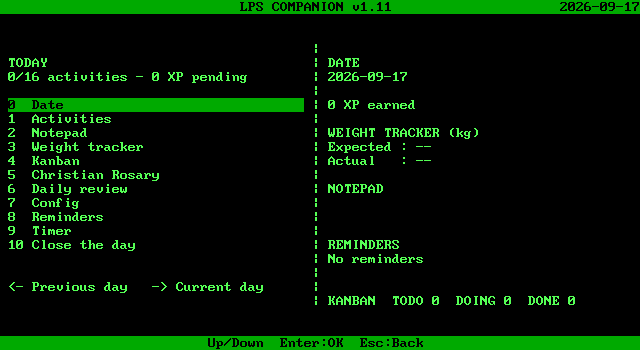
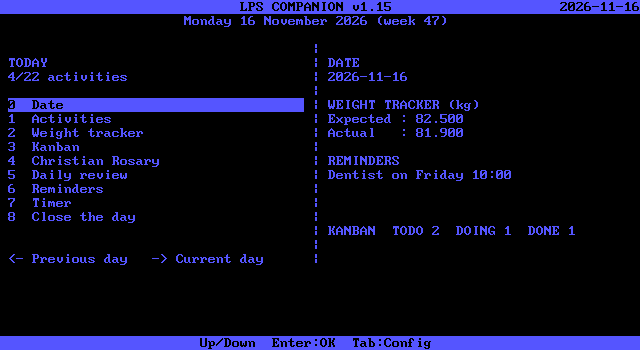
LPS-DOS-115-CHG12: LPS COMPANION v1.15 title, READMEs, DOSBox captures, Book 8088 checklist
- LPS_VERSION_STR 1.15 in title bar and start-up banner (as PicoCalc LPS-115-CHG06); header comments; test asserts v1.15 title.
- READMEs EN/FR and top-level README: v1.15, parity table (TAB Config, Home entries, overlays), EN Known differences, MEALS.DAT beside the EXE.
- captures/*.png retaken in DOSBox (machine=ega, cputype=8086, cycles=fixed 300), raw 640x350.
- tools/capture_drive.c + drive_captures.sh updated to the CHG10 keys and meals.c.
- BOOK8088-TEST.md: real-device checklist (FR + EN).
- Root LPSCOMP.EXE rebuilt; ROSARY.DAT, MEALS.DAT, HELLO.EXE unchanged.

diff --git a/lps-companion/tests/test_storage.c b/lps-companion/tests/test_storage.c
@@ -171,6 +171,7 @@ static void check_menu_and_legacy_note(const char *tmpdir){
     assert(save_store(tmpdir,&s,&gen,&active));
     hw=plat_host_create(0); app_init(a,hw); app_start(a);
     assert(app_screen(a)==SCR_HOME);
+    assert(row_has(hw,0,"LPS COMPANION v1.15") && !strcmp(LPS_VERSION_STR,"1.15")); /* LPS-DOS-115-CHG12 */
     for(i=0;i<9;i++) assert(strstr(plat_host_row(hw,7+(int)i),labels[i]));
     for(i=7;i<=17;i++) assert(!strstr(plat_host_row(hw,(int)i),"Config") && !strstr(plat_host_row(hw,(int)i),"9  "));
     assert(row_has(hw,24,"Up/Down  Enter:OK  Tab:Config"));
@@ -1966,7 +1967,7 @@ int main(void){
     check_home_filtered(tmpdir);
     assert(orphan_hits>0); /* some edit took a name history had stored */
 
-    printf("%s", "PASS: storage, ICS (empty XP line), CSV, A/B, app close-day without XP, long date + ISO week 2000-2099, ROSARY.DAT load/missing/damaged, menu 0-8 without notepad or Config, archive menu 1-2, legacy note in ICS, timer 5/30/60 on keys 1-3, ICS 8.3 name YYYYMMDD.ICS, French CP437 screens + UTF-8 ICS, word wrap, JSON saves (round trip, PicoCalc fixtures byte-identical, BIN migration, damaged slot fallback,");
+    printf("%s", "PASS: storage, ICS (empty XP line), CSV, A/B, app close-day without XP, long date + ISO week 2000-2099, ROSARY.DAT load/missing/damaged, title v1.15, menu 0-8 without notepad or Config, archive menu 1-2, legacy note in ICS, timer 5/30/60 on keys 1-3, ICS 8.3 name YYYYMMDD.ICS, French CP437 screens + UTF-8 ICS, word wrap, JSON saves (round trip, PicoCalc fixtures byte-identical, BIN migration, damaged slot fallback,");
     printf("%s", " unknown keys, newer schema), activities (22 defaults, catalog from the save, 3 columns, keys per column, archive extras, 30 entries, pages), custom activities (rename per language, new, Del with confirm, F4/F5 wrap, frozen history, limits), top-row keys by BIOS scan code (AZERTY/US, keypad, text entry), accented tasks and reminders (32 UTF-8 bytes, PicoCalc fixture),");
     printf(" UTF-8 kept byte for byte (PicoCalc JSON/ICS/CSV with oe, A grave, euro, emoji), MEALS.DAT (13 pictures, checksums, damaged/missing), Meal Planner (SPACE, wraps, play/put back, saves, archive read-only, new deck at close, text card, graphics hooks, FR, PicoCalc deck byte-identical),");
     printf(" Meal Planner CSV (MPYYMMDD.CSV byte-identical to PicoCalc, rules, failures, close day), TAB/SPACE overlays (identical return, text entry, Weight, confirmations, cross-open, archive, timer behind overlays + CSV), fixture decode (%u captures)\n", 0);

diff --git a/lps-companion/tools/capture_drive.c b/lps-companion/tools/capture_drive.c
@@ -25,9 +25,9 @@ int main(void){
     app_key(app,'1'); snap(hw,"02-activities");
     app_key(app,KEY_ESCAPE); app_key(app,'3'); snap(hw,"03-kanban");
     app_key(app,KEY_ESCAPE); app_key(app,'4'); snap(hw,"04-rosary-mode");
-    app_key(app,KEY_ESCAPE); app_key(app,'8'); snap(hw,"05-timer");
-    /* Config 6: 1 Language, 2 Francais, 3 Save */
-    app_key(app,KEY_ESCAPE); app_key(app,'6'); app_key(app,'1'); app_key(app,'2');
-    app_key(app,'3'); /* save FR */ snap(hw,"06-home-fr");
+    app_key(app,KEY_ESCAPE); app_key(app,'7'); snap(hw,"05-timer");
+    /* Config (TAB, LPS-DOS-115-CHG10): 1 Language, 2 Francais, 4 Save */
+    app_key(app,KEY_ESCAPE); app_key(app,KEY_TAB); app_key(app,'1'); app_key(app,'2');
+    app_key(app,'4'); /* save FR */ snap(hw,"06-home-fr");
     return 0;
 }

diff --git a/lps-companion/src/lps.h b/lps-companion/src/lps.h
@@ -1,4 +1,4 @@
-/* LPS Companion MS-DOS port - shared types (Companion v1.11 parity). C89. */
+/* LPS Companion MS-DOS port - shared types (Companion v1.15 parity). C89. */
 #ifndef LPS_H
 #define LPS_H
 
@@ -15,7 +15,7 @@ typedef unsigned long  lps_tick_t;
 typedef uint64_t lps_tick_t;
 #endif
 
-#define LPS_VERSION_STR "1.11"
+#define LPS_VERSION_STR "1.15" /* LPS-DOS-115-CHG12, as PicoCalc LPS-115-CHG06 */
 #define NOTE_LENGTH 96 /* legacy notes: kept in SAVE and ICS, no editor since LPS-DOS-115-CHG02 */
 #define HISTORY_LENGTH 31
 #define TASK_NAME_LENGTH 32

diff --git a/lps-companion/src/state.c b/lps-companion/src/state.c
@@ -1,4 +1,4 @@
-/* state.c - dates, banked XP, encode/decode (Companion v1.11 wire formats 1-6). */
+/* state.c - dates, banked XP, encode/decode of the old binary saves (formats 1-6, migration). */
 #include "lps.h"
 #include <stdio.h>
 #include <stdlib.h>

diff --git a/lps-companion/src/app.c b/lps-companion/src/app.c
@@ -1,4 +1,4 @@
-/* app.c - LPS Companion UI state machine (v1.11 feature parity). C89. */
+/* app.c - LPS Companion UI state machine (v1.15 feature parity). C89. */
 #include "lps.h"
 #include "rosary.h"
 #include "meals.h"

diff --git a/lps-companion/README.md b/lps-companion/README.md
@@ -2,7 +2,7 @@
 
 **English** | [Francais](#lps-companion-pour-ms-dos)
 
-A full port of [LPS Companion v1.11](https://github.com/TME520/LPS-Companion-PicoCalc) (PicoCalc) to real-mode 16-bit MS-DOS
+A full port of [LPS Companion v1.15](https://github.com/TME520/LPS-Companion-PicoCalc) (PicoCalc) to real-mode 16-bit MS-DOS
 for Intel **8088**-class PCs with **640 KB** conventional memory. Keyboard only
 (no mouse). Text mode **80×25** (content laid out in 40 columns, same as the
 Companion). Data lives under `C:\LPS\` by default and uses the **same**
@@ -133,6 +133,10 @@ As on the PicoCalc v1.15 (LPS-115-CHG04), same code paths:
 - The save does not change: `"homeHidden"` as in CHG10, byte for byte as the PicoCalc. Saves written by DOS under DOSBox with entries hidden go through the PicoCalc's reader and writer unchanged.
 - **Speed on an 8088** (DOSBox `machine=ega`, `cputype=8086`, `cycles=fixed 300`): Down on Home 0.19 s with 9 entries, 0.17 s with 7; a digit and Esc back 0.45 s; TAB/TAB with the cursor kept 0.39 s for the pair; SPACE/SPACE through the planner 0.84 s for the pair; Config's Save back to the filtered Home 0.88 s with the write and read-back of a small save.
 
+### Version 1.15 (LPS-DOS-115-CHG12)
+
+The title bar and the start-up banner read **LPS COMPANION v1.15**, as on the PicoCalc v1.15 (LPS-115-CHG06). With LPS-DOS-115-CHG01 to CHG11 the DOS port now has the PicoCalc v1.15 features and files: JSON saves, ICS, weight CSV and Meal Planner CSV are byte-compatible; the differences left are listed under *Known differences*. The screenshots in `captures/` were taken again under DOSBox (`machine=ega`, `cputype=8086`, `cycles=fixed 300`) with v1.15. A test list for the real Book 8088 is in [`BOOK8088-TEST.md`](BOOK8088-TEST.md).
+
 The **Timer / Minuteur** offers **5, 30 or 60 minutes** (LPS-DOS-115-CHG02b, as PicoCalc v1.12 CHG01/CHG02). Keys **1**, **2** and **3** start a duration directly, without Enter. On the completion screen they start a new countdown at once and Enter returns to the duration menu; while a countdown runs they are ignored, and Enter pauses or resumes. Timing still comes from the BIOS tick (about 55 ms).
 
 French is shown with its accents (LPS-DOS-115-CHG03): **Activités, Journée, Rosaire chrétien, Revue journalière, Février, Août, Décembre…**, with the PicoCalc's wording, in the PC's own code page 437 font. CP437 has é è ê ë à â ä ç î ï ô û ù ü and É, but no other accented capitals, so À, È, Ê, Ô and Â show without their accent (À FAIRE → A FAIRE, NOTRE PÈRE → NOTRE PERE, TÂCHE → TACHE). Files stay UTF-8 like the PicoCalc's: a French ICS now writes `Activités:` and accented activity names exactly as the PicoCalc does (earlier DOS builds wrote `Activites:`). See *Text encoding* below. A note already saved by an older version is kept in the save and still exported to the ICS (`\NNote: ...`) when its day is closed; it is no longer shown or editable.
@@ -153,13 +157,13 @@ Saves are JSON files, `SAVE_A.JSN` and `SAVE_B.JSN`, exactly as on the PicoCalc 
 
 - MS-DOS 3.3+ / FreeDOS / MS-DOS 7.x (FAT12/16)
 - Intel 8088 or compatible (EXE built with Open Watcom `-0`)
-- ~300 KB free disk for `LPSCOMP.EXE` (~94 KB), `ROSARY.DAT` (~10 KB) and `MEALS.DAT` (~196 KB); the data folder grows with history (each JSON save is up to about 10 KB)
+- ~300 KB free disk for `LPSCOMP.EXE` (~97 KB), `ROSARY.DAT` (~10 KB) and `MEALS.DAT` (~196 KB); the data folder grows with history (each JSON save is up to about 10 KB)
 - Colour text (CGA/EGA/VGA) for palettes; mono still readable
 - EGA (128 KB or more) or VGA in colour for the Meal Planner pictures; otherwise the planner runs in text mode
 - Python 3 to build `MEALS.DAT` (`make meals`, `make test`)
 - Open Watcom C/C++ (v2) to build; gcc to run the host tests
 
-## Feature parity (Companion v1.11)
+## Feature parity (Companion v1.15)
 
 | Feature | Status |
 |---|---|
@@ -171,7 +175,9 @@ Saves are JSON files, `SAVE_A.JSN` and `SAVE_B.JSN`, exactly as on the PicoCalc 
 | Kanban 24 tasks TODO/DOING/DONE | Yes |
 | Christian Rosary (4 modes, FR/EN) | Yes (French accents in CP437) |
 | Daily review | Yes |
-| Config language EN/FR + 5 palettes | Yes (text attributes) |
+| Config language EN/FR + 5 palettes, opened with TAB | Yes (text attributes; LPS-DOS-115-CHG10) |
+| Home entries shown/hidden (Config > Activities, `"homeHidden"`) | Yes (LPS-DOS-115-CHG10/CHG11) |
+| TAB/SPACE from every screen (Config, Meal Planner) | Yes (LPS-DOS-115-CHG09) |
 | 3 reminders | Yes |
 | Timer 5/30/60, keys 1-3 (BIOS tick) | Yes |
 | Close day (XP and keepsakes hidden, as in v1.12) | Yes |
@@ -179,7 +185,7 @@ Saves are JSON files, `SAVE_A.JSN` and `SAVE_B.JSN`, exactly as on the PicoCalc 
 | Dual A/B JSON save (`SAVE_A/B.JSN`, schema 2) + CRC | Yes (read **and** write, PicoCalc-compatible) |
 | `SAVE_A/B.BIN` v1–v6 migration | Yes (read once; `.BIN` files left untouched) |
 | ICS + weights CSV byte-compatible | Yes |
-| Meal Planner (16 cards, Space on Home, card pictures) | Yes (LPS-DOS-115-CHG07, EGA graphics; text mode without EGA) |
+| Meal Planner (16 cards, Space, card pictures) | Yes (LPS-DOS-115-CHG07, EGA graphics; text mode without EGA) |
 | Meal Planner CSV `EXPORT\MPYYMMDD.CSV` byte-compatible | Yes (LPS-DOS-115-CHG08, same name as the PicoCalc) |
 
 ## Build
@@ -345,7 +351,7 @@ Fixes kept in this tree:
   (`-k4096`), which is what `make dos` passes
 - Video: detect MDA vs CGA via BIOS equipment word + mode `0Fh`; use **B000**
   or **B800** accordingly; only set mode `03h`/`07h` if not already text
-- Early BIOS teletype banner (`LPS COMPANION v1.11`) before dirs / UI
+- Early BIOS teletype banner (`LPS COMPANION v1.15` since LPS-DOS-115-CHG12) before dirs / UI
 - Soft FP (`-fpc`) — no 8087 required
 - **`HELLO.EXE`** (built with `make hello`): tiny BIOS-only smoke test (prints mode / equipment)
 
@@ -514,17 +520,24 @@ byte-compatible with the firmware.
 | `tests/fixtures/mealcsv/MP*.CSV` | Meal Planner CSV files written by the PicoCalc's own code |
 | `tools/picocalc_fixture.cpp` | Builds the PicoCalc save code on the host: fixtures and checks |
 
+## Known differences
+
+- Capitals À, È, Ê, Ô and Â show without their accent: code page 437 does not have them (LPS-DOS-115-CHG03).
+- ICS files are named `EXPORT\YYYYMMDD.ICS` (8.3) instead of `YYYY-MM-DD_LPS-Companion.ics`; the content is the same (LPS-DOS-115-CHG02c).
+- Saves are written when leaving a screen, confirming Date/Weight/Config, closing the day or quitting (**Q**), not after every change; the Meal Planner saves when it closes, not after each card. After a write DOS checks the CRC-32 only, not a full re-parse (8088 speed).
+- Meal Planner pictures are checked with a 32-bit sum instead of a CRC-32 (8088 speed); without colour EGA the planner is in text mode.
+- No low-battery warning (no such hardware). Config has no "SD import" entry: the DOS disk **is** the storage.
+
 ## Captures
 
-PNG screenshots under `captures/` (home EN/FR, a few feature screens, a
-DOSBox 8086 home grab, and two DOSBox EGA grabs of the Meal Planner). Text dumps are not stored; `make captures` rewrites
+PNG screenshots under `captures/`, all raw 640×350 DOSBox grabs of v1.15 at 8088 speed (`machine=ega`, `cputype=8086`, `cycles=fixed 300`, LPS-DOS-115-CHG12): Home EN/FR, Activities, Kanban, Rosary mode, Timer, a DOSBox Home grab and the EGA Meal Planner (EN, and FR with a played card). Text dumps are not stored; `make captures` rewrites
 `captures/*.txt` from the host UI driver.
 
 ---
 
 # LPS Companion pour MS-DOS
 
-Port complet de [LPS Companion v1.11](https://github.com/TME520/LPS-Companion-PicoCalc)
+Port complet de [LPS Companion v1.15](https://github.com/TME520/LPS-Companion-PicoCalc)
 vers MS-DOS 16 bits (8088, 640 Ko), clavier uniquement, mode texte 80×25.
 Memes formats `SAVE_A/B.JSN` (sauvegarde JSON, schema 2), ICS et CSV que le firmware PicoCalc v1.13 et suivants.
 
@@ -651,6 +664,10 @@ Comme sur la PicoCalc v1.15 (LPS-115-CHG04), avec la même logique :
 - La sauvegarde ne change pas : `"homeHidden"` comme pour CHG10, octet pour octet comme la PicoCalc. Les sauvegardes écrites par DOS sous DOSBox avec des entrées masquées passent par le lecteur et l'écrivain de la PicoCalc sans changer.
 - **Vitesse sur 8088** (DOSBox `machine=ega`, `cputype=8086`, `cycles=fixed 300`) : Bas sur l'accueil 0,19 s avec 9 entrées, 0,17 s avec 7 ; un chiffre puis Échap 0,45 s ; TAB/TAB avec le curseur gardé 0,39 s pour la paire ; ESPACE/ESPACE par le planificateur 0,84 s pour la paire ; Enregistrer dans Config jusqu'à l'accueil filtré 0,88 s, écriture et relecture d'une petite sauvegarde comprises.
 
+### Version 1.15 (LPS-DOS-115-CHG12)
+
+La barre de titre et la bannière de démarrage affichent **LPS COMPANION v1.15**, comme la PicoCalc v1.15 (LPS-115-CHG06). Avec LPS-DOS-115-CHG01 à CHG11, le portage DOS a les fonctions et les fichiers de la PicoCalc v1.15 : sauvegardes JSON, ICS, CSV des poids et CSV du planificateur de repas sont compatibles à l'octet près ; les écarts restants sont listés sous *Ecarts connus*. Les captures de `captures/` ont été refaites sous DOSBox (`machine=ega`, `cputype=8086`, `cycles=fixed 300`) avec la v1.15. Une liste de tests pour le vrai Book 8088 est dans [`BOOK8088-TEST.md`](BOOK8088-TEST.md).
+
 Le **Minuteur** propose **5, 30 ou 60 minutes** (LPS-DOS-115-CHG02b, comme les CHG01/CHG02 de la PicoCalc v1.12). Les touches **1**, **2** et **3** lancent directement une duree, sans Entree. Sur l'ecran de fin, elles relancent aussitot un compte a rebours et Entree revient au choix de la duree ; pendant un compte a rebours, elles sont ignorees et Entree met en pause ou reprend. Le temps vient toujours du tic BIOS (environ 55 ms). Une note deja enregistree par une ancienne version reste dans la sauvegarde et part toujours dans l'ICS (`\NNote: ...`) a la cloture du jour ; elle n'est plus affichee ni modifiable.
 
 ## Book 8088 / materiel reel
@@ -750,4 +767,10 @@ Depuis LPS-DOS-115-CHG03b, le segment DGROUP de 64 Ko (donnees proches + pile) p
 - Config n'a pas d'entree « import SD » : le disque DOS **est** le stockage.
 - Planificateur de repas (LPS-DOS-115-CHG07) : la sauvegarde est ecrite
   en quittant le planificateur, pas a chaque carte ; les images sont controlees
-  par une somme 32 bits au lieu d'un CRC-32 (vitesse sur 8088).
+  par une somme 32 bits au lieu d'un CRC-32 (vitesse sur 8088) ; sans EGA
+  couleur, le planificateur passe en mode texte.
+- Fichiers ICS nommes `EXPORT\YYYYMMDD.ICS` (8.3) au lieu de
+  `YYYY-MM-DD_LPS-Companion.ics` ; contenu identique (LPS-DOS-115-CHG02c).
+- Sauvegarde ecrite en quittant un ecran, en confirmant Date/Poids/Config, en
+  cloturant le jour ou en quittant (**Q**), pas a chaque modification ; apres
+  l'ecriture, DOS verifie le CRC-32 seulement, sans tout relire (vitesse 8088).

diff --git a/lps-companion/BOOK8088-TEST.md b/lps-companion/BOOK8088-TEST.md
@@ -1,0 +1,56 @@
+# Book 8088 – liste de tests sur le vrai materiel (LPS COMPANION v1.15)
+
+Tests a faire sur le Book 8088 (8088, EGA/CGA) apres LPS-DOS-115-CHG12. Les
+temps de reference viennent de DOSBox a la vitesse d'un 8088
+(`cputype=8086`, `cycles=fixed 300`) ; noter le temps reel a cote.
+
+## 1. Fichiers a copier
+
+Dans un meme dossier (par exemple `C:\LPSCOMP\`), depuis la racine du depot :
+
+| Fichier | Taille | Role |
+|---|---|---|
+| `LPSCOMP.EXE` | 99 580 o | programme |
+| `ROSARY.DAT` | 10 217 o | textes du chapelet |
+| `MEALS.DAT` | 199 964 o | images du planificateur de repas |
+
+Optionnel : `HELLO.EXE` (2 776 o) pour un premier test de la machine.
+Les donnees vont dans `C:\LPS\` (cree au premier lancement). Pour le test
+aller-retour PicoCalc, copier aussi `SAVE_A.JSN` / `SAVE_B.JSN` de la carte SD.
+
+## 2. Points a verifier
+
+| # | Test | Attendu | Ref. DOSBox | Resultat |
+|---|---|---|---|---|
+| 1 | Lancer `LPSCOMP` | banniere puis barre de titre **LPS COMPANION v1.15** | – | |
+| 2 | Vitesse des touches : Bas sur l'Accueil, cocher une activite, deplacer une tache Kanban | reponse sans attente visible, aucune touche perdue en tapant vite | Accueil 0,17–0,19 s ; 2 coches 0,28–0,33 s | |
+| 3 | Chargement JSON au demarrage (sauvegarde courte, puis sauvegarde de 31 jours) | Accueil affiche, donnees presentes | 0,7 s / 3,1 s | |
+| 4 | Ecriture JSON : quitter Activites (Esc), Config > 4 Enregistrer | pas d'erreur, `SAVE_A.JSN`/`SAVE_B.JSN` alternes | 0,7 s / 3,2 s (31 jours) | |
+| 5 | Planificateur de repas (Espace) sur EGA couleur | images des cartes en EGA, Gauche/Droite, Entree joue la carte | Tab vers Config 0,17 s / retour 0,33 s | |
+| 6 | Planificateur sans EGA (ecran CGA/mono, ou `MEALS.DAT` absent) | repli en mode texte, pas de plantage | – | |
+| 7 | `KEYB FR` (AZERTY) | chiffres de la rangee du haut sans Maj (& é " ' ( - è _ ç à) sur l'Accueil/Config ; taper é è ç à dans une tache Kanban | – | |
+| 8 | Export ICS : cloturer le jour | `C:\LPS\EXPORT\YYYYMMDD.ICS` lisible | – | |
+| 9 | CSV des poids : saisir un poids | `C:\LPS\WEIGHTS\YYYY.csv` | – | |
+| 10 | CSV du planificateur : jouer une carte, quitter (Espace ou Esc) | `C:\LPS\EXPORT\MPYYMMDD.CSV` | – | |
+| 11 | Aller-retour PicoCalc : sauvegarde SD -> DOS, modifier, recopier sur la SD | la PicoCalc v1.15 ouvre la sauvegarde ; entrees masquees (Config > Activites) conservees | – | |
+| 12 | Tab / Espace depuis chaque ecran, Q pour quitter puis relancer | Config/planificateur s'ouvrent et se referment ; donnees conservees | – | |
+
+Noter aussi : modele exact (CPU, carte video), version de DOS, et tout
+caractere mal affiche (les capitales À È Ê Ô Â sont sans accent : normal).
+
+---
+
+# Book 8088 – real-device checklist (EN, short)
+
+Copy `LPSCOMP.EXE` (99,580 B), `ROSARY.DAT` (10,217 B) and `MEALS.DAT`
+(199,964 B) into one folder; data goes to `C:\LPS\`. Check, against the
+DOSBox 8088-speed reference times above:
+
+1. Title bar **LPS COMPANION v1.15**.
+2. Key speed: Home Down 0.17–0.19 s, no lost keys when typing fast.
+3. JSON load at start-up 0.7 s (short save) / 3.1 s (31 days); save on leaving Activities 0.7 s / 3.2 s.
+4. Meal Planner (Space) in EGA colour; text fallback without EGA or `MEALS.DAT`.
+5. `KEYB FR`: top-row digits unshifted, é è ç à typed in Kanban.
+6. Exports: `EXPORT\YYYYMMDD.ICS`, `WEIGHTS\YYYY.csv`, `EXPORT\MPYYMMDD.CSV`.
+7. PicoCalc round-trip: SD save -> DOS -> edit -> back to SD, opens on the PicoCalc v1.15 with hidden Home entries kept.
+8. Tab/Space from every screen; Q, restart, data kept.

diff --git a/README.md b/README.md
@@ -18,4 +18,4 @@ Sources and rebuild instructions are in [`lps-companion/`](lps-companion/). A lo
 
 | Program | Directory | What it is |
 |---|---|---|
-| LPS Companion | [`lps-companion/`](lps-companion/) | MS-DOS port of [LPS Companion v1.11](https://github.com/TME520/LPS-Companion-PicoCalc) (Open Watcom, real-mode 8086, 80×25 text). Run [`LPSCOMP.EXE`](LPSCOMP.EXE) (with [`ROSARY.DAT`](ROSARY.DAT) beside it) and [`HELLO.EXE`](HELLO.EXE) from this repository root. |
+| LPS Companion | [`lps-companion/`](lps-companion/) | MS-DOS port of [LPS Companion v1.15](https://github.com/TME520/LPS-Companion-PicoCalc) (Open Watcom, real-mode 8086, 80×25 text, EGA Meal Planner). Run [`LPSCOMP.EXE`](LPSCOMP.EXE) (with [`ROSARY.DAT`](ROSARY.DAT) and [`MEALS.DAT`](MEALS.DAT) beside it) and [`HELLO.EXE`](HELLO.EXE) from this repository root. |
